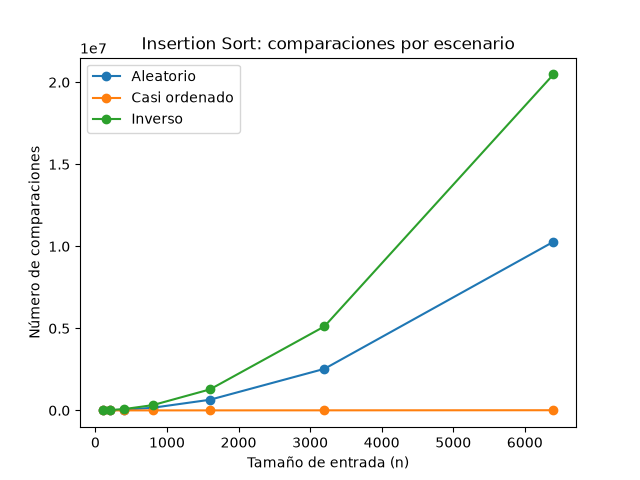
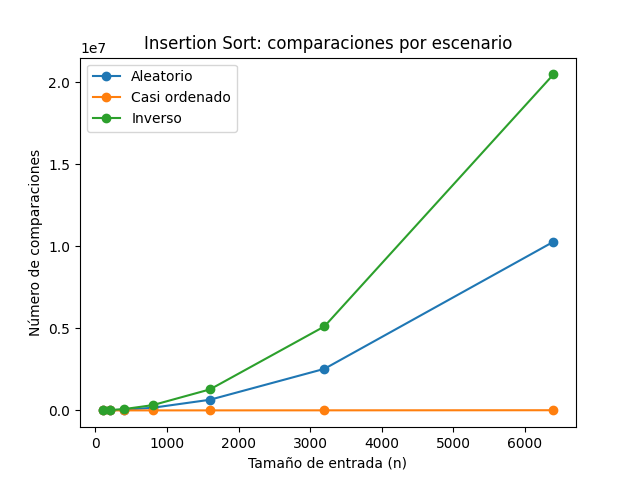
Corrige rutas de graficas de la Parte 3

diff --git a/lab1-fundamentos-complejidad-recurrencias/parte3_casos.py b/lab1-fundamentos-complejidad-recurrencias/parte3_casos.py
@@ -83,10 +83,8 @@ def main() -> None:
     plt.xlabel("Tamaño de entrada (n)")
     plt.ylabel("Número de comparaciones")
     plt.legend()
-    plt.savefig(
-        "lab1-fundamentos-complejidad-recurrencias/"
-        "graficas/parte3_comparaciones.png"
-    )
+    plt.savefig("graficas/parte3_comparaciones.png")
+    
     plt.close()
 
     plt.figure()
@@ -113,10 +111,8 @@ def main() -> None:
     plt.xlabel("Tamaño de entrada (n)")
     plt.ylabel("Tiempo de ejecución (segundos)")
     plt.legend()
-    plt.savefig(
-        "lab1-fundamentos-complejidad-recurrencias/"
-        "graficas/parte3_tiempo.png"
-    )
+    plt.savefig("graficas/parte3_tiempo.png")
+
     plt.close()
 
 
